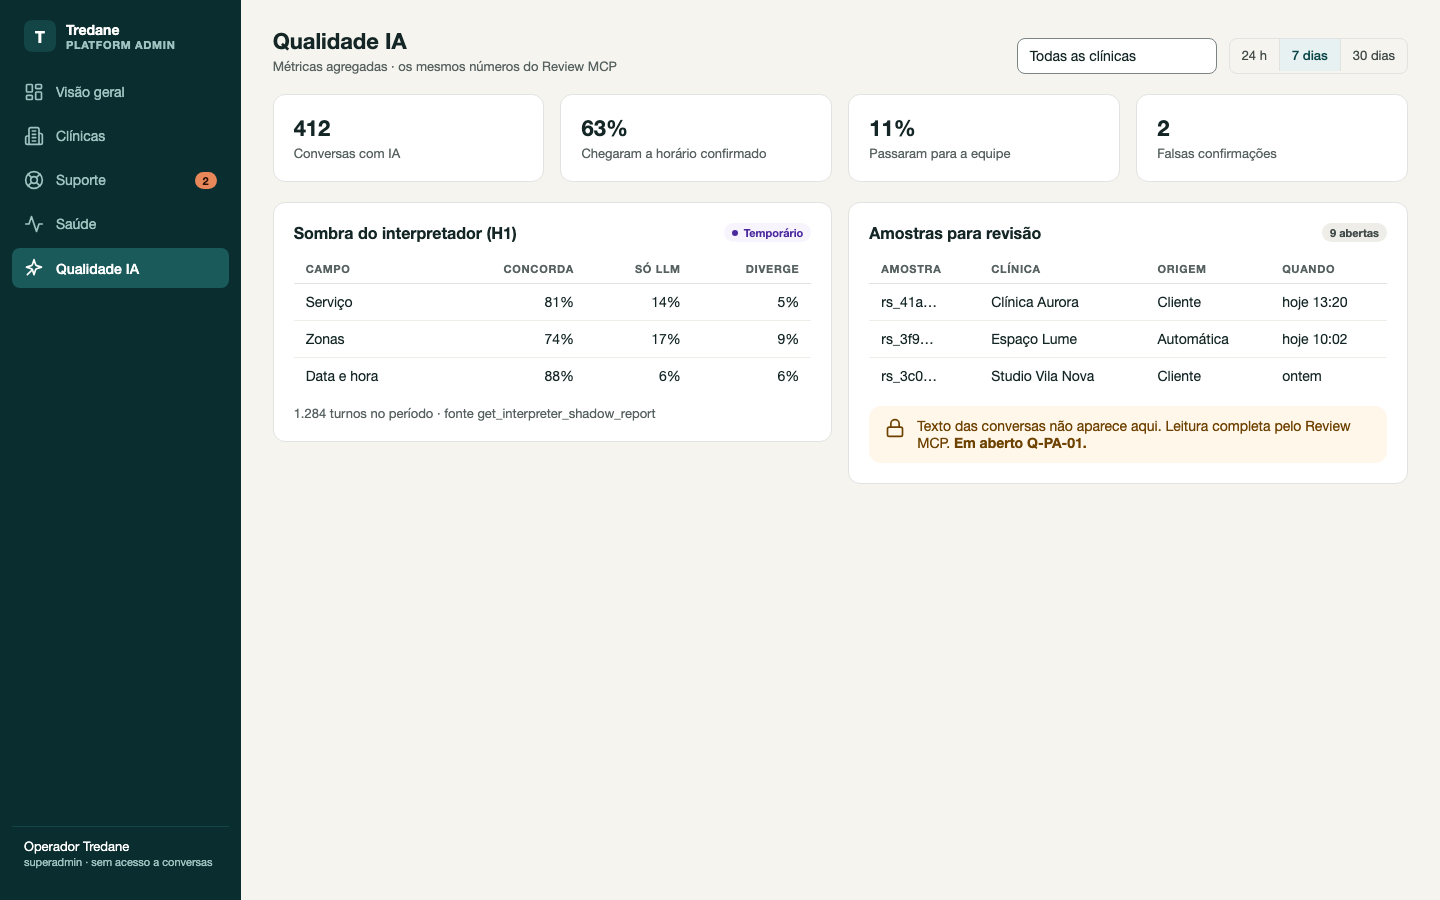
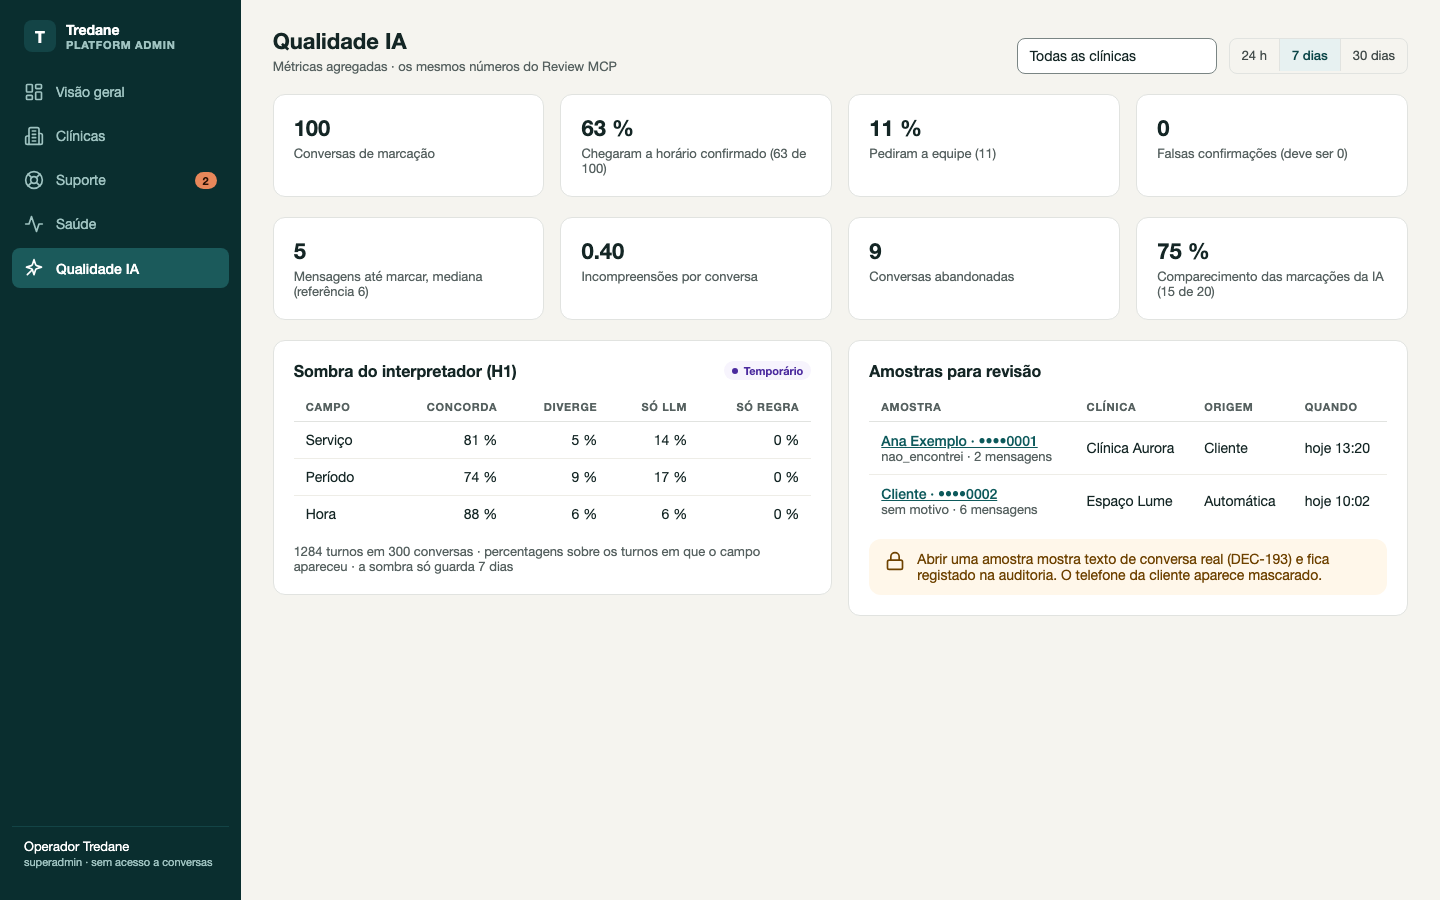
docs(admin): PA-07 revisto e PA-12 (amostra com texto, DEC-193)

diff --git a/docs/design/admin/QualidadeIAAmostra.dc.html b/docs/design/admin/QualidadeIAAmostra.dc.html
@@ -1,0 +1,133 @@
+<!doctype html>
+<html lang="pt-BR">
+<head>
+<meta charset="utf-8">
+<title>Amostra de revisão</title>
+<script src="./support.js"></script>
+</head>
+<body>
+<x-dc>
+<helmet>
+<link rel="preconnect" href="https://fonts.googleapis.com">
+<link href="https://fonts.googleapis.com/css2?family=Roboto:wght@400;500;600;700&amp;display=swap" rel="stylesheet">
+<style>
+body{margin:0}
+*{box-sizing:border-box}
+a{color:#0E5A5C}
+.ic{width:20px;height:20px;fill:none;stroke:currentColor;stroke-width:2;stroke-linecap:round;stroke-linejoin:round;flex:none}
+.ics{width:16px;height:16px}
+.nav a{display:flex;align-items:center;gap:12px;min-height:40px;padding:0 12px;border-radius:8px;font-size:14px;color:#9FC3C1;text-decoration:none}
+.nav a[aria-current]{background:#1B5A5B;color:#FFFFFF;font-weight:500}
+.nav .n{margin-left:auto;font-size:11px;font-weight:600;background:#E8875A;color:#2A1206;border-radius:999px;padding:2px 8px}
+h1{margin:0;font-size:22px;font-weight:600}
+.sub{font-size:13px;color:#566160}
+.card{background:#FFFFFF;border:1px solid #E1E3E0;border-radius:12px;padding:20px;display:flex;flex-direction:column;gap:12px;min-width:0}
+.ch{margin:0;font-size:16px;font-weight:600}
+.btn{display:inline-flex;align-items:center;gap:8px;height:36px;padding:0 16px;border-radius:8px;font-size:14px;font-weight:500;border:1px solid #E1E3E0;background:#FFFFFF;color:#142625;font-family:inherit;cursor:pointer;text-decoration:none}
+.btn.pri{background:#0E5A5C;border-color:#0E5A5C;color:#FFFFFF}
+.btn.dan{color:#B42318;border-color:#F1B8B2}
+.btn.sm{height:28px;padding:0 12px;font-size:13px}
+.pill{display:inline-flex;align-items:center;gap:6px;font-size:11px;font-weight:600;border-radius:999px;padding:3px 8px;white-space:nowrap}
+.pill i{width:6px;height:6px;border-radius:999px;background:currentColor}
+.ok{color:#1F7A4D;background:#EAF5EF}
+.warn{color:#6E4200;background:#FFF7EA}
+.bad{color:#B42318;background:#FDF1F0}
+.neu{color:#424B4A;background:#EEEDE7}
+.info{color:#0A4547;background:#E7F1F1}
+.ai{color:#4B2A9E;background:#F7F4FD}
+table{width:100%;border-collapse:collapse;font-size:14px}
+th{text-align:left;font-size:11px;font-weight:600;letter-spacing:.06em;text-transform:uppercase;color:#566160;padding:8px 12px;border-bottom:1px solid #E1E3E0;white-space:nowrap}
+td{padding:10px 12px;border-bottom:1px solid #EEEDE7;vertical-align:middle}
+tr:last-child td{border-bottom:0}
+td small{display:block;font-size:13px;color:#566160}
+.num{text-align:right;font-variant-numeric:tabular-nums}
+.stat{display:flex;flex-direction:column;gap:4px}
+.stat b{font-size:22px;font-weight:600;font-variant-numeric:tabular-nums}
+.stat span{font-size:13px;color:#566160}
+.field{display:flex;flex-direction:column;gap:6px;font-size:13px;color:#424B4A}
+.input{height:36px;border:1px solid #7A8584;border-radius:8px;padding:0 12px;font-size:14px;color:#142625;background:#FFFFFF;display:flex;align-items:center;font-family:inherit}
+.tabs{display:flex;gap:4px;border-bottom:1px solid #E1E3E0}
+.tabs a{padding:10px 12px;font-size:14px;color:#424B4A;text-decoration:none;border-bottom:2px solid transparent;margin-bottom:-1px}
+.tabs a[aria-selected=true]{color:#0A4547;border-bottom-color:#0E5A5C;font-weight:500}
+.kv{display:grid;grid-template-columns:160px 1fr;gap:8px 16px;font-size:14px;margin:0}
+.kv dt{color:#566160}
+.kv dd{margin:0}
+.note{display:flex;gap:12px;align-items:flex-start;padding:12px 16px;border-radius:12px;font-size:14px}
+.seg{display:flex;border:1px solid #E1E3E0;border-radius:8px;overflow:hidden}
+.seg span{padding:0 12px;height:32px;display:flex;align-items:center;font-size:13px;color:#424B4A;border-right:1px solid #E1E3E0}
+.seg span:last-child{border-right:0}
+.seg span[aria-pressed=true]{background:#E7F1F1;color:#0A4547;font-weight:500}
+.bar{height:8px;border-radius:999px;background:#EEEDE7;overflow:hidden}
+.bar i{display:block;height:100%;background:#0E5A5C;border-radius:999px}
+</style>
+</helmet>
+<div style="min-height:900px;background:#F5F4EF;font-family:Roboto, 'Helvetica Neue', Arial, sans-serif;color:#142625;display:flex;flex-wrap:wrap">
+  <nav class="nav" aria-label="Platform Admin" style="flex:1 1 240px;max-width:280px;background:#0A2E2F;padding:20px 12px;display:flex;flex-direction:column;gap:4px">
+    <div style="display:flex;align-items:center;gap:10px;padding:0 12px 16px">
+      <span style="width:32px;height:32px;border-radius:8px;background:#134446;color:#FFFFFF;display:flex;align-items:center;justify-content:center;font-weight:700;font-size:16px">T</span>
+      <span style="display:flex;flex-direction:column"><b style="color:#FFFFFF;font-size:14px;font-weight:600">Tredane</b><span style="color:#9FC3C1;font-size:11px;font-weight:600;letter-spacing:.06em;text-transform:uppercase">Platform Admin</span></span>
+    </div>
+    <a href="#"><svg class="ic" viewBox="0 0 24 24" aria-hidden="true"><rect x="3" y="3" width="7" height="9" rx="1"/><rect x="14" y="3" width="7" height="5" rx="1"/><rect x="14" y="12" width="7" height="9" rx="1"/><rect x="3" y="16" width="7" height="5" rx="1"/></svg>Visão geral</a>
+<a href="#"><svg class="ic" viewBox="0 0 24 24" aria-hidden="true"><path d="M6 22V4a2 2 0 0 1 2-2h8a2 2 0 0 1 2 2v18Z"/><path d="M6 12H4a2 2 0 0 0-2 2v6a2 2 0 0 0 2 2h2"/><path d="M18 9h2a2 2 0 0 1 2 2v9a2 2 0 0 1-2 2h-2"/><path d="M10 6h4"/><path d="M10 10h4"/><path d="M10 14h4"/><path d="M10 18h4"/></svg>Clínicas</a>
+<a href="#"><svg class="ic" viewBox="0 0 24 24" aria-hidden="true"><circle cx="12" cy="12" r="10"/><path d="m4.93 4.93 4.24 4.24"/><path d="m14.83 9.17 4.24-4.24"/><path d="m14.83 14.83 4.24 4.24"/><path d="m9.17 14.83-4.24 4.24"/><circle cx="12" cy="12" r="4"/></svg>Suporte<span class="n" aria-label="2 pendentes">2</span></a>
+<a href="#"><svg class="ic" viewBox="0 0 24 24" aria-hidden="true"><path d="M22 12h-4l-3 9L9 3l-3 9H2"/></svg>Saúde</a>
+<a href="#" aria-current="page"><svg class="ic" viewBox="0 0 24 24" aria-hidden="true"><path d="M9.94 14.06 4 20"/><path d="m12 2 1.9 5.8a2 2 0 0 0 1.3 1.3L21 11l-5.8 1.9a2 2 0 0 0-1.3 1.3L12 20l-1.9-5.8a2 2 0 0 0-1.3-1.3L3 11l5.8-1.9a2 2 0 0 0 1.3-1.3Z"/></svg>Qualidade IA</a>
+
+    <div style="margin-top:auto;padding:12px;border-top:1px solid #134446;display:flex;flex-direction:column;gap:2px">
+      <span style="color:#FFFFFF;font-size:13px">Operador Tredane</span>
+      <span style="color:#9FC3C1;font-size:11px">superadmin · sem acesso a conversas</span>
+    </div>
+  </nav>
+  <main style="flex:999 1 560px;min-width:0;padding:28px 32px;display:flex;flex-direction:column;gap:20px;max-width:1200px">
+    <div style="display:flex;align-items:flex-end;gap:16px">
+      <div style="flex:1;display:flex;flex-direction:column;gap:4px"><h1>Qualidade IA</h1><span class="sub">Métricas agregadas · os mesmos números do Review MCP</span></div>
+      <div style="display:flex;gap:12px"><span class="input" style="width:200px;justify-content:space-between">Todas as clínicas</span><div class="seg" role="group" aria-label="Período"><span>24 h</span><span aria-pressed="true">7 dias</span><span>30 dias</span></div></div>
+    </div>
+    <div style="display:grid;grid-template-columns:repeat(auto-fit,minmax(200px,1fr));gap:16px">
+      <div class="card stat"><b>100</b><span>Conversas de marcação</span></div><div class="card stat"><b>63 %</b><span>Chegaram a horário confirmado (63 de 100)</span></div><div class="card stat"><b>11 %</b><span>Pediram a equipe (11)</span></div><div class="card stat"><b>0</b><span>Falsas confirmações (deve ser 0)</span></div>
+    </div>
+    <div style="display:grid;grid-template-columns:repeat(auto-fit,minmax(200px,1fr));gap:16px">
+      <div class="card stat"><b>5</b><span>Mensagens até marcar, mediana (referência 6)</span></div><div class="card stat"><b>0.40</b><span>Incompreensões por conversa</span></div><div class="card stat"><b>9</b><span>Conversas abandonadas</span></div><div class="card stat"><b>75 %</b><span>Comparecimento das marcações da IA (15 de 20)</span></div>
+    </div>
+    <div style="display:grid;grid-template-columns:repeat(auto-fit,minmax(320px,1fr));gap:16px;align-items:start">
+      <section class="card"><div style="display:flex;align-items:center;gap:8px"><h2 class="ch" style="flex:1">Sombra do interpretador (H1)</h2><span class="pill ai"><i></i>Temporário</span></div>
+        <table><thead><tr><th>Campo</th><th class="num">Concorda</th><th class="num">Diverge</th><th class="num">Só LLM</th><th class="num">Só regra</th></tr></thead><tbody>
+          <tr><td>Serviço</td><td class="num">81 %</td><td class="num">5 %</td><td class="num">14 %</td><td class="num">0 %</td></tr>
+          <tr><td>Período</td><td class="num">74 %</td><td class="num">9 %</td><td class="num">17 %</td><td class="num">0 %</td></tr>
+          <tr><td>Hora</td><td class="num">88 %</td><td class="num">6 %</td><td class="num">6 %</td><td class="num">0 %</td></tr>
+        </tbody></table>
+        <span class="sub">1284 turnos em 300 conversas · percentagens sobre os turnos em que o campo apareceu · a sombra só guarda 7 dias</span>
+      </section>
+      <section class="card"><div style="display:flex;align-items:center;gap:8px"><h2 class="ch" style="flex:1">Amostras para revisão</h2></div>
+        <table><thead><tr><th>Amostra</th><th>Clínica</th><th>Origem</th><th>Quando</th></tr></thead><tbody>
+          <tr><td><a href="#" style="font-weight:500">Ana Exemplo · ••••0001</a><small>nao_encontrei · 2 mensagens</small></td><td>Clínica Aurora</td><td>Cliente</td><td>hoje 13:20</td></tr>
+          <tr><td><a href="#" style="font-weight:500">Cliente · ••••0002</a><small>sem motivo · 6 mensagens</small></td><td>Espaço Lume</td><td>Automática</td><td>hoje 10:02</td></tr>
+        </tbody></table>
+        <div class="note" style="background:#FFF7EA;color:#6E4200"><svg class="ic" viewBox="0 0 24 24" aria-hidden="true"><rect width="18" height="11" x="3" y="11" rx="2"/><path d="M7 11V7a5 5 0 0 1 10 0v4"/></svg><span>Abrir uma amostra mostra texto de conversa real (DEC-193) e fica registado na auditoria. O telefone da cliente aparece mascarado.</span></div>
+      </section>
+    </div>
+    <div style="position:fixed;inset:0;background:rgba(20,20,22,.45);display:flex;align-items:center;justify-content:center;padding:16px">
+      <div class="card" style="width:100%;max-width:640px;gap:12px;border-radius:16px" role="dialog" aria-label="Amostra">
+        <h2 class="ch" style="font-size:18px">Amostra · Clínica Aurora</h2>
+        <span class="sub">Ana Exemplo · ••••0001 · Cliente · nao_encontrei · marcada hoje 13:20</span>
+        <div class="note" style="background:#FFF7EA;color:#6E4200;border:1px solid #EBCB94"><svg class="ic" viewBox="0 0 24 24" aria-hidden="true"><rect width="18" height="11" x="3" y="11" rx="2"/><path d="M7 11V7a5 5 0 0 1 10 0v4"/></svg><span>Texto de conversa real. Só o superadmin vê, a amostra expira ao fim de 30 dias e esta leitura fica registada na auditoria.</span></div>
+        <div style="font-size:14px"><b style="font-weight:600">O que a cliente escreveu sobre o problema</b><ul style="margin:4px 0 0;padding-left:20px"><li>o sistema travou</li></ul></div>
+        <div style="display:flex;flex-direction:column;gap:8px">
+          <div style="align-self:flex-start;background:#EEEDE7;border-radius:8px;padding:8px 12px;display:flex;flex-direction:column;gap:2px"><small style="font-size:11px;color:#566160;display:block">Cliente · 13:18</small>quero cotovelo</div>
+          <div style="align-self:flex-end;background:#E7F1F1;border-radius:8px;padding:8px 12px;display:flex;flex-direction:column;gap:2px"><small style="font-size:11px;color:#566160;display:block">Clínica · 13:19</small>Não encontrei cotovelo nas opções.</div>
+        </div>
+        <div style="display:flex;justify-content:flex-end"><button class="btn">Fechar</button></div>
+      </div>
+    </div>
+  </main>
+</div>
+</x-dc>
+<script type="text/x-dc" data-dc-script data-props='{"$preview":{"width":1440,"height":900}}'>
+class Component extends DCLogic {
+  renderVals() {
+    return {};
+  }
+}
+</script>
+</body>
+</html>

diff --git a/docs/design/admin/QualidadeIA.dc.html b/docs/design/admin/QualidadeIA.dc.html
@@ -84,27 +84,26 @@ td small{display:block;font-size:13px;color:#566160}
       <div style="display:flex;gap:12px"><span class="input" style="width:200px;justify-content:space-between">Todas as clínicas</span><div class="seg" role="group" aria-label="Período"><span>24 h</span><span aria-pressed="true">7 dias</span><span>30 dias</span></div></div>
     </div>
     <div style="display:grid;grid-template-columns:repeat(auto-fit,minmax(200px,1fr));gap:16px">
-      <div class="card stat"><b>412</b><span>Conversas com IA</span></div>
-      <div class="card stat"><b>63%</b><span>Chegaram a horário confirmado</span></div>
-      <div class="card stat"><b>11%</b><span>Passaram para a equipe</span></div>
-      <div class="card stat"><b>2</b><span>Falsas confirmações</span></div>
+      <div class="card stat"><b>100</b><span>Conversas de marcação</span></div><div class="card stat"><b>63 %</b><span>Chegaram a horário confirmado (63 de 100)</span></div><div class="card stat"><b>11 %</b><span>Pediram a equipe (11)</span></div><div class="card stat"><b>0</b><span>Falsas confirmações (deve ser 0)</span></div>
+    </div>
+    <div style="display:grid;grid-template-columns:repeat(auto-fit,minmax(200px,1fr));gap:16px">
+      <div class="card stat"><b>5</b><span>Mensagens até marcar, mediana (referência 6)</span></div><div class="card stat"><b>0.40</b><span>Incompreensões por conversa</span></div><div class="card stat"><b>9</b><span>Conversas abandonadas</span></div><div class="card stat"><b>75 %</b><span>Comparecimento das marcações da IA (15 de 20)</span></div>
     </div>
     <div style="display:grid;grid-template-columns:repeat(auto-fit,minmax(320px,1fr));gap:16px;align-items:start">
       <section class="card"><div style="display:flex;align-items:center;gap:8px"><h2 class="ch" style="flex:1">Sombra do interpretador (H1)</h2><span class="pill ai"><i></i>Temporário</span></div>
-        <table><thead><tr><th>Campo</th><th class="num">Concorda</th><th class="num">Só LLM</th><th class="num">Diverge</th></tr></thead><tbody>
-          <tr><td>Serviço</td><td class="num">81%</td><td class="num">14%</td><td class="num">5%</td></tr>
-          <tr><td>Zonas</td><td class="num">74%</td><td class="num">17%</td><td class="num">9%</td></tr>
-          <tr><td>Data e hora</td><td class="num">88%</td><td class="num">6%</td><td class="num">6%</td></tr>
+        <table><thead><tr><th>Campo</th><th class="num">Concorda</th><th class="num">Diverge</th><th class="num">Só LLM</th><th class="num">Só regra</th></tr></thead><tbody>
+          <tr><td>Serviço</td><td class="num">81 %</td><td class="num">5 %</td><td class="num">14 %</td><td class="num">0 %</td></tr>
+          <tr><td>Período</td><td class="num">74 %</td><td class="num">9 %</td><td class="num">17 %</td><td class="num">0 %</td></tr>
+          <tr><td>Hora</td><td class="num">88 %</td><td class="num">6 %</td><td class="num">6 %</td><td class="num">0 %</td></tr>
         </tbody></table>
-        <span class="sub">1.284 turnos no período · fonte get_interpreter_shadow_report</span>
+        <span class="sub">1284 turnos em 300 conversas · percentagens sobre os turnos em que o campo apareceu · a sombra só guarda 7 dias</span>
       </section>
-      <section class="card"><div style="display:flex;align-items:center;gap:8px"><h2 class="ch" style="flex:1">Amostras para revisão</h2><span class="pill neu">9 abertas</span></div>
+      <section class="card"><div style="display:flex;align-items:center;gap:8px"><h2 class="ch" style="flex:1">Amostras para revisão</h2></div>
         <table><thead><tr><th>Amostra</th><th>Clínica</th><th>Origem</th><th>Quando</th></tr></thead><tbody>
-          <tr><td>rs_41a…</td><td>Clínica Aurora</td><td>Cliente</td><td>hoje 13:20</td></tr>
-          <tr><td>rs_3f9…</td><td>Espaço Lume</td><td>Automática</td><td>hoje 10:02</td></tr>
-          <tr><td>rs_3c0…</td><td>Studio Vila Nova</td><td>Cliente</td><td>ontem</td></tr>
+          <tr><td><a href="#" style="font-weight:500">Ana Exemplo · ••••0001</a><small>nao_encontrei · 2 mensagens</small></td><td>Clínica Aurora</td><td>Cliente</td><td>hoje 13:20</td></tr>
+          <tr><td><a href="#" style="font-weight:500">Cliente · ••••0002</a><small>sem motivo · 6 mensagens</small></td><td>Espaço Lume</td><td>Automática</td><td>hoje 10:02</td></tr>
         </tbody></table>
-        <div class="note" style="background:#FFF7EA;color:#6E4200"><svg class="ic" viewBox="0 0 24 24" aria-hidden="true"><rect width="18" height="11" x="3" y="11" rx="2"/><path d="M7 11V7a5 5 0 0 1 10 0v4"/></svg><span>Texto das conversas não aparece aqui. Leitura completa pelo Review MCP. <b style="font-weight:600">Em aberto Q-PA-01.</b></span></div>
+        <div class="note" style="background:#FFF7EA;color:#6E4200"><svg class="ic" viewBox="0 0 24 24" aria-hidden="true"><rect width="18" height="11" x="3" y="11" rx="2"/><path d="M7 11V7a5 5 0 0 1 10 0v4"/></svg><span>Abrir uma amostra mostra texto de conversa real (DEC-193) e fica registado na auditoria. O telefone da cliente aparece mascarado.</span></div>
       </section>
     </div>
   </main>

diff --git a/docs/product/platform-admin.md b/docs/product/platform-admin.md
@@ -110,7 +110,7 @@ Mocks **Confirmados** (Paulo, 16/11/2026) em [`docs/design/admin/`](../design/ad
 | PA-04 | Detalhe da clínica (abas Resumo, Membros, Saúde, Suporte, Auditoria) | `GET/PATCH .../:id`, `suspend`, `reactivate`, `DELETE`, `members`, `owners*`, `.../health`, `.../support`, `GET .../:id/audit` | — (todas as abas implementadas: #829, #830, #833, #831, #832) |
 | PA-05 | Suporte | `GET /api/platform/support`, `GET .../tenants/:id/support`, `POST /api/platform/support-requests` | **Pedir e listar: PR #854 (#831).** Ativar, entrar, encerrar e cancelar pedido: #853 (no D1 de produção essas rotas dão 503; a Clinic App não lê o cookie de suporte) |
 | PA-06 | Saúde global | `GET /api/platform/health` (resumo gravado pelo cron, DEC-193); `GET .../tenants/:id/health`; `POST .../health/refresh` | — (implementado em #833/PR #851) |
-| PA-07 | Qualidade IA | `GET /api/f6/ops/conversation-metrics`; MCP review-central | Rotas REST `/api/platform/quality/*` sobre as funções do MCP |
+| PA-07, PA-12 | Qualidade IA e amostra aberta | `GET /api/platform/quality/{metrics,shadow,samples,samples/:id}` — as mesmas funções do Review MCP (DEC-159) | — (implementado em #834) |
 | PA-08 a PA-11 | Abas Membros, Saúde, Suporte e Auditoria do detalhe | ver 6.1 | ver 6.1 |
 
 Estados obrigatórios em todas: carregando, vazio, erro com repetir, sessão expirada; PA-04 e PA-06 também «clínica sem resposta».
@@ -147,7 +147,7 @@ Estados obrigatórios em todas: carregando, vazio, erro com repetir, sessão exp
 
 | ID | Pergunta | Opções | Decide | Bloqueia |
 | --- | --- | --- | --- | --- |
-| Q-PA-01 | **Resolvida (Paulo, 16/11/2026: «sim»):** PA-07 mostra o texto das amostras de revisão, como o Review MCP já faz ao superadmin (DEC-159). | Opção (b). Descartada: só ids. | Paulo | O mock PA-07 aprovado mostra só ids e precisa de ajuste (abrir amostra com as mensagens) antes de #834 |
+| Q-PA-01 | **Resolvida (Paulo, 16/11/2026: «sim»):** PA-07 mostra o texto das amostras de revisão, como o Review MCP já faz ao superadmin (DEC-159). | Opção (b). Descartada: só ids. | Paulo | **Implementado no PR #(qualidade IA, #834):** PA-07 revisto e PA-12 novo; o telefone sai mascarado e cada leitura de texto fica na auditoria (`review.sample.read`) |
 | Q-PA-02 | **Resolvida (Paulo, 16/11/2026):** a saúde global lê um **resumo periódico gravado no D1** (cron), não o DO a cada pedido. | Opção (b). Descartada: fan-out aos DOs a pedido. | Paulo | PA-06 e PA-01 mostram a hora do resumo; PA-09 (clínica) pode atualizar o snapshot da própria clínica a pedido |
 | Q-PA-03 | Aviso de aprovação de suporte em tempo real para o superadmin | polling 30 s (proposto) ou canal próprio | Paulo | Não bloqueia o primeiro corte |
 | Q-PA-04 | **Ainda em aberto; o PR #851 (#833) não mostra volume.** A aba Saúde pode mostrar volume (contatos, mensagens, marcações, anexos) da clínica? | (a) sim, só números, como o snapshot já faz; (b) não, só sinais de falha | Paulo | Mock PA-09 |

diff --git a/docs/design/screens.md b/docs/design/screens.md
@@ -137,7 +137,8 @@ Mocks PA-01 a PA-07 **Confirmados** (Paulo, 16/11/2026, «aprovado»); os estado
 | PA-04 | `ClinicaDetalhe` | TEL-13 detalhe (aba Resumo) | JRN-22, JRN-24 · REQ-105, REQ-106, REQ-108 · AC-82, AC-83 | Alerta de saúde, dados, integrações, owners (adicionar, substituir, remover); ações Pedir suporte, Suspender, Excluir | PA-05, PA-06 |
 | PA-05 | `Suporte` | TEL-13 suporte | JRN-23 · REQ-007, REQ-060–066, REQ-107 · AC-84 | Sessão ativa com contador de 30 min e barra, lista de pedidos (aprovado, aguarda owner, ativa, rejeitado) | Clinic App (handoff) |
 | PA-06 | `Saude` | TEL-13 saúde | JRN-24 · REQ-108 · AC-85 | Contagens por clínica: outbox, incertos, jobs de IA, schema, leitura; clínica suspensa e sem resposta | PA-04 |
-| PA-07 | `QualidadeIA` | TEL-13 qualidade IA | JRN-25 · REQ-110 · AC-86 | Métricas agregadas, sombra H1, amostras só com id (Q-PA-01 em aberto) | — |
+| PA-07 | `QualidadeIA` | TEL-13 qualidade IA (**Confirmado** 16/11/2026; **revisto** 16/11/2026 pela DEC-193: amostras com texto) | JRN-25 · REQ-110 · AC-86 | Métricas de conversa (8 cartões, falsa confirmação a vermelho se > 0), sombra H1 por campo (Concorda, Diverge, Só LLM, Só regra), amostras com telefone mascarado que abrem a conversa | PA-12 |
+| PA-12 | `QualidadeIAAmostra` | TEL-13 qualidade IA · amostra aberta (**Proposto**, DEC-193) | JRN-25 · REQ-110 | Diálogo com a conversa real (quem disse o quê), comentários da cliente e o aviso de que a leitura fica na auditoria | PA-07 |
 | PA-08 | `ClinicaMembros` | TEL-13 detalhe · aba Membros (**Confirmado**, Paulo 16/11/2026) | JRN-22 · REQ-105 · AC-82 | Filtro Ativos/Revogados/Todos, owners com Substituir e Remover, attendants sem ação, linha com nome indisponível do Clerk | PA-04 |
 | PA-09 | `ClinicaSaude` | TEL-13 detalhe · aba Saúde (**Confirmado**, Paulo 16/11/2026) | JRN-24 · REQ-108 · AC-85 | Alertas da clínica com limiar, cartões Envios, WhatsApp, IA, Dados e Volume (Q-PA-04) | PA-06 |
 | PA-10 | `ClinicaSuporte` | TEL-13 detalhe · aba Suporte (**Confirmado**, Paulo 16/11/2026) | JRN-23 · REQ-107 · AC-84 | Histórico de pedidos e sessões da clínica com estado final, quem decidiu e duração | PA-05 |

diff --git a/docs/design/CHANGELOG.md b/docs/design/CHANGELOG.md
@@ -1,5 +1,10 @@
 # Histórico do design
 
+## 17/11/2026 — Platform Admin: PA-07 revisto e PA-12 novo (DEC-193)
+
+- **PA-07** passa a refletir os dados reais: oito cartões de métricas (falsa confirmação a vermelho se > 0), sombra H1 por campo com Concorda, Diverge, Só LLM e Só regra, e amostras com telefone mascarado que abrem a conversa. Antes mostrava só ids e valores fictícios.
+- **PA-12** (novo, **Proposto**): diálogo com o texto da conversa de uma amostra de revisão, comentários da cliente e o aviso de leitura auditada (Q-PA-01, DEC-193).
+
 ## 16/11/2026 — Platform Admin: mocks PA-01 a PA-07 (**Confirmado**, Paulo «aprovado», DEC-192)
 
 - Pasta nova `admin/` com sete telas desktop (1440×900): visão geral, clínicas, nova clínica, detalhe da clínica, suporte, saúde e qualidade da IA. Navegação lateral com as cores `nav` existentes; nenhum token novo.
